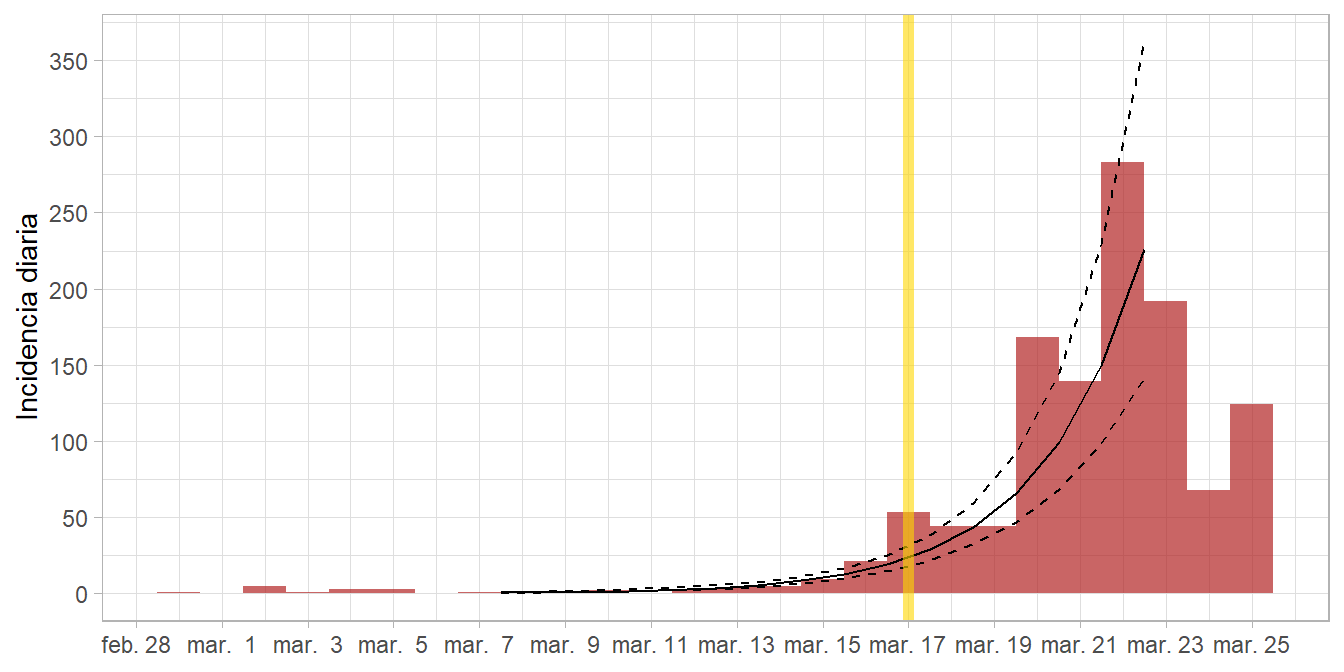
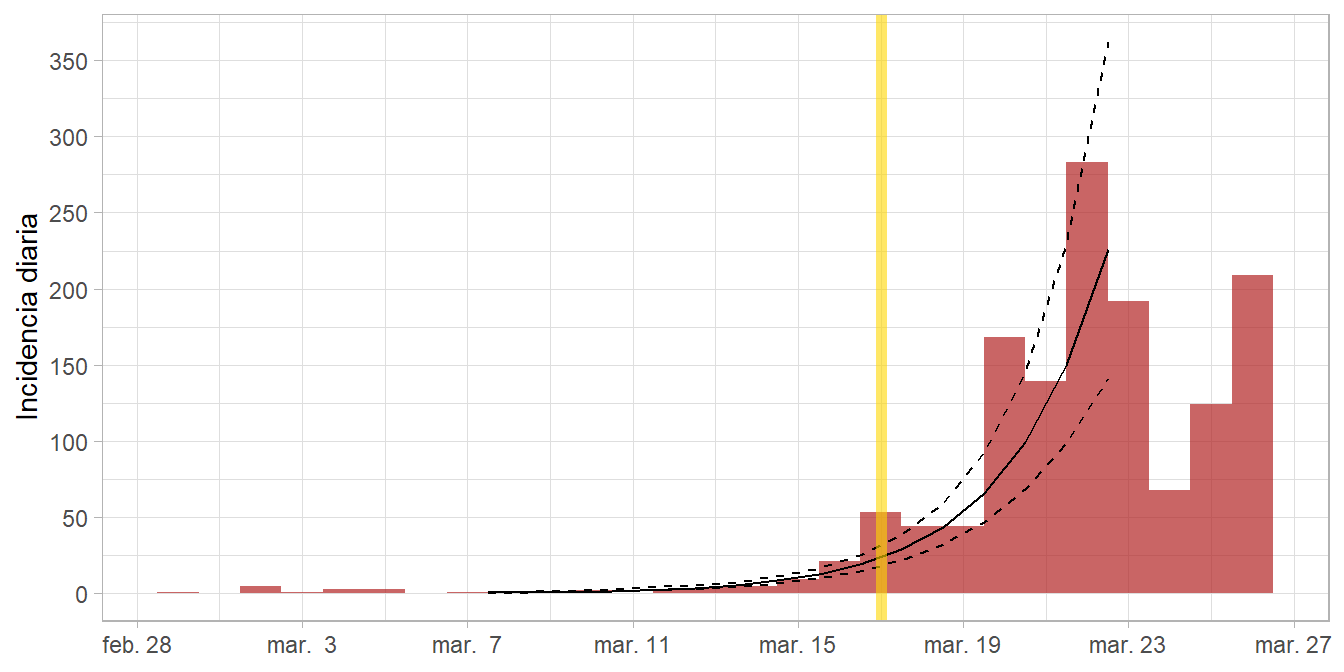
5th post corona act6

Changed region(s): [[0.0625, 0.0, 1.0, 0.9688], [0.4688, 0.875, 0.5, 0.9062]]

diff --git a/docs/post/2020/03/20-caracterizacion-covid-ecuador/index.html b/docs/post/2020/03/20-caracterizacion-covid-ecuador/index.html
@@ -298,7 +298,7 @@ code span.wa { color: #bf0303; } /* Warning */
 </style>
 
 
-<p><strong>Actualizado: 25 de marzo, 12 AM</strong></p>
+<p><strong>Actualizado: 26 de marzo, 1 PM</strong></p>
 <p>En vista de la emergencia en curso causada por el SARS-CoV-2 se presenta una caracterización de la epidemia en Ecuador. Se ha aplicado una metodología sugerida por el R Epidemics Consortium <a href="https://www.repidemicsconsortium.org/">RECON</a> que permite estimar tempranamente el ritmo reproductivo del virus; esta metodología requiere poseer información sobre la transmisión, y datos de la incidencia. La información requerida contempla los siguientes conceptos:</p>
 <ul>
 <li><p>El ritmo reproductivo básico (<em>Basic Reproduction Number</em>, R<sub>0</sub>) es el número esperado de casos nuevos, generados directamente por un determinado caso en una población completamente susceptible; es crucial entender que R<sub>0</sub> no es una constante biológica de un patógeno, pues es afectado por factores ambientales y conductuales.</p></li>
@@ -331,6 +331,20 @@ Personas fallecidas
 </tr>
 </thead>
 <tbody>
+<tr>
+<td style="text-align:left;">
+Riesgos_Ec
+</td>
+<td style="text-align:left;">
+26 de marzo, 10 AM
+</td>
+<td style="text-align:right;">
+1382
+</td>
+<td style="text-align:right;">
+34
+</td>
+</tr>
 <tr>
 <td style="text-align:left;">
 Riesgos_Ec
@@ -657,8 +671,8 @@ Salud_Ec
 ##          2          2          4          5          9         21         53 
 ## 2020-03-18 2020-03-19 2020-03-20 2020-03-21 2020-03-22 2020-03-23 2020-03-24 
 ##         44         44        168        139        283        192         68 
-## 2020-03-25 
-##        124</code></pre>
+## 2020-03-25 2020-03-26 
+##        124        209</code></pre>
 <p>A continuación es posible ajustar un modelo logarítmico para la incidencia en el tiempo utilizando el paquete <code>incidence</code>:</p>
 <div class="sourceCode" id="cb3"><pre class="sourceCode r"><code class="sourceCode r"><a class="sourceLine" id="cb3-1" title="1"><span class="kw">library</span>(incidence)</a>
 <a class="sourceLine" id="cb3-2" title="2"></a>
@@ -711,12 +725,12 @@ Figure 2: Distribución de Ro del COVID-19 según SI de otros coronavirus 👈 y
 ##   222.9667   281.0238   344.1267   417.3118   503.9178   609.0908   735.8126 
 ## 2020-03-30 2020-03-31 2020-04-01 2020-04-02 2020-04-03 2020-04-04 2020-04-05 
 ##   887.5471  1072.2918  1294.5923  1563.9690  1889.7482  2279.6449  2754.6759</code></pre>
-<p>Estos datos representan la incidencia promedio para cada día, en un primer escenario donde R<sub>0</sub> no cambia en absoluto. Los casos actuales y la proyección futura -la región sombreada delimita el 95 % CI- se presentan en el siguiente gráfico de manera acumulativa:</p>
-<div class="sourceCode" id="cb8"><pre class="sourceCode r"><code class="sourceCode r"><a class="sourceLine" id="cb8-1" title="1">EC_incid =<span class="st"> </span><span class="kw">cumulate</span>(EC_incid)</a>
+<p>Estos datos representan la incidencia promedio cada día, en un primer escenario donde R<sub>0</sub> no cambia en absoluto. Los casos actuales, exceptuando la primera semana, y la proyección futura -la región sombreada delimita el 95 % CI- se presentan en los siguientes gráficos de manera acumulativa:</p>
+<div class="sourceCode" id="cb8"><pre class="sourceCode r"><code class="sourceCode r"><a class="sourceLine" id="cb8-1" title="1">EC_cum =<span class="st"> </span><span class="kw">cumulate</span>(EC_incid)[<span class="op">-</span><span class="kw">c</span>(<span class="dv">1</span><span class="op">:</span><span class="dv">7</span>)]</a>
 <a class="sourceLine" id="cb8-2" title="2"></a>
-<a class="sourceLine" id="cb8-3" title="3">EC_proj =<span class="st"> </span><span class="kw">cumulate</span>(EC_proj) <span class="op">+</span><span class="st"> </span><span class="kw">max</span>(EC_incid[<span class="dv">1</span><span class="op">:</span><span class="dv">23</span>]<span class="op">$</span>counts)</a>
+<a class="sourceLine" id="cb8-3" title="3">EC_proj =<span class="st"> </span><span class="kw">cumulate</span>(EC_proj) <span class="op">+</span><span class="st"> </span>EC_cum<span class="op">$</span>counts[<span class="dv">16</span>]</a>
 <a class="sourceLine" id="cb8-4" title="4"></a>
-<a class="sourceLine" id="cb8-5" title="5"><span class="kw">add_projections</span>(<span class="kw">plot</span>(EC_incid), EC_proj, <span class="kw">c</span>(.<span class="dv">025</span>, <span class="fl">.5</span>)) <span class="op">+</span></a>
+<a class="sourceLine" id="cb8-5" title="5"><span class="kw">add_projections</span>(<span class="kw">plot</span>(EC_cum), EC_proj, <span class="dt">quantiles =</span> <span class="kw">c</span>(.<span class="dv">025</span>, <span class="fl">.5</span>)) <span class="op">+</span></a>
 <a class="sourceLine" id="cb8-6" title="6"><span class="st">   </span><span class="kw">geom_vline</span>(<span class="dt">xintercept =</span> <span class="kw">as.Date</span>(<span class="st">&quot;2020-03-17&quot;</span>), <span class="dt">col =</span> <span class="st">&quot;gold&quot;</span>, <span class="dt">alpha =</span> <span class="fl">.6</span>, <span class="dt">size =</span> <span class="dv">2</span>) <span class="op">+</span></a>
 <a class="sourceLine" id="cb8-7" title="7"><span class="st">   </span><span class="kw">scale_y_continuous</span>(<span class="st">&quot;Incidencia diaria acumulada&quot;</span>, <span class="fl">2e3</span> <span class="op">*</span><span class="st"> </span><span class="dv">0</span><span class="op">:</span><span class="dv">9</span>) <span class="op">+</span></a>
 <a class="sourceLine" id="cb8-8" title="8"><span class="st">   </span><span class="kw">scale_x_date</span>(<span class="dt">date_breaks =</span> <span class="st">&quot;4 days&quot;</span>, <span class="dt">date_labels =</span> <span class="st">&quot;%b %e&quot;</span>) <span class="op">+</span></a>
@@ -727,7 +741,7 @@ Figure 2: Distribución de Ro del COVID-19 según SI de otros coronavirus 👈 y
 Figure 3: Proyección de incidencia diaria acumulada de COVID-19 en Ecuador si R0 = 2.08
 </p>
 </div>
-<p>El segundo y tercer escenarios calculados suponen que R<sub>0</sub> se reduce a la mitad (figura <a href="#fig:project-better">4</a>) y a la quinta parte (figura <a href="#fig:project-best">5</a>), respectivamente:</p>
+<p>El segundo y tercer escenarios calculados suponen que R<sub>0</sub> se reduce a la mitad (figura <a href="#fig:project-better">4</a>) y a la cuarta parte (figura <a href="#fig:project-best">5</a>), respectivamente:</p>
 <div class="figure"><span id="fig:project-better"></span>
 <img src="../../../../post/2020/03/20-caracterizacion-covid-ecuador_files/figure-html/project-better-1.png" alt="Proyección de incidencia diaria acumulada de COVID-19 en Ecuador si R0 = 1.04" width="672" />
 <p class="caption">
@@ -735,9 +749,9 @@ Figure 4: Proyección de incidencia diaria acumulada de COVID-19 en Ecuador si R
 </p>
 </div>
 <div class="figure"><span id="fig:project-best"></span>
-<img src="../../../../post/2020/03/20-caracterizacion-covid-ecuador_files/figure-html/project-best-1.png" alt="Proyección de incidencia diaria acumulada de COVID-19 en Ecuador si R0 = 0.42" width="672" />
+<img src="../../../../post/2020/03/20-caracterizacion-covid-ecuador_files/figure-html/project-best-1.png" alt="Proyección de incidencia diaria acumulada de COVID-19 en Ecuador si R0 = 0.52" width="672" />
 <p class="caption">
-Figure 5: Proyección de incidencia diaria acumulada de COVID-19 en Ecuador si R0 = 0.42
+Figure 5: Proyección de incidencia diaria acumulada de COVID-19 en Ecuador si R0 = 0.52
 </p>
 </div>
 <p>Evidentemente, si R<sub>0</sub> &lt; 1 la epidemia será controlada eventualmente. Sin embargo, <strong>estas proyecciones no son realistas</strong> pues cualquier cambio introducido en R<sub>0</sub> -a través de medidas políticas, sociales y sanitarias- no se refleja inmediatamente; en Ecuador es necesario contar las infecciones previas a la declaración de estado de excepción, y que aún no han superado el periodo de incubación. Se pretende actualizar este post conforme las incidencias diarias sean reportadas y reflejen, con optimismo, las medidas adoptadas.</p>
